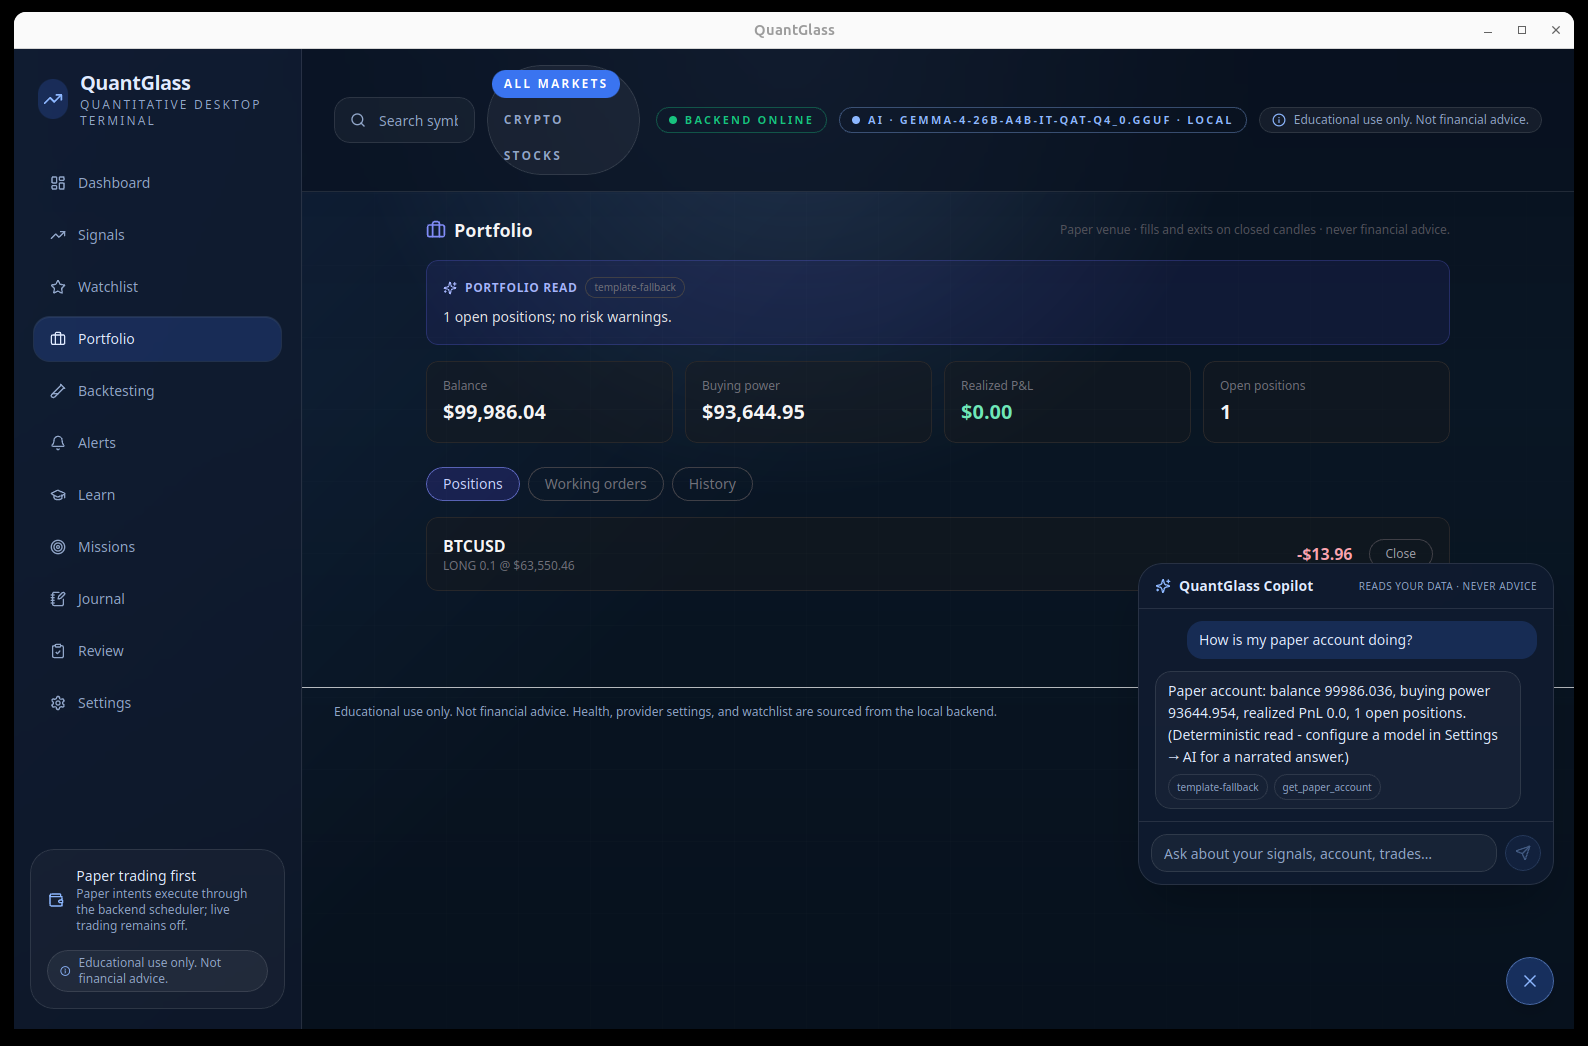
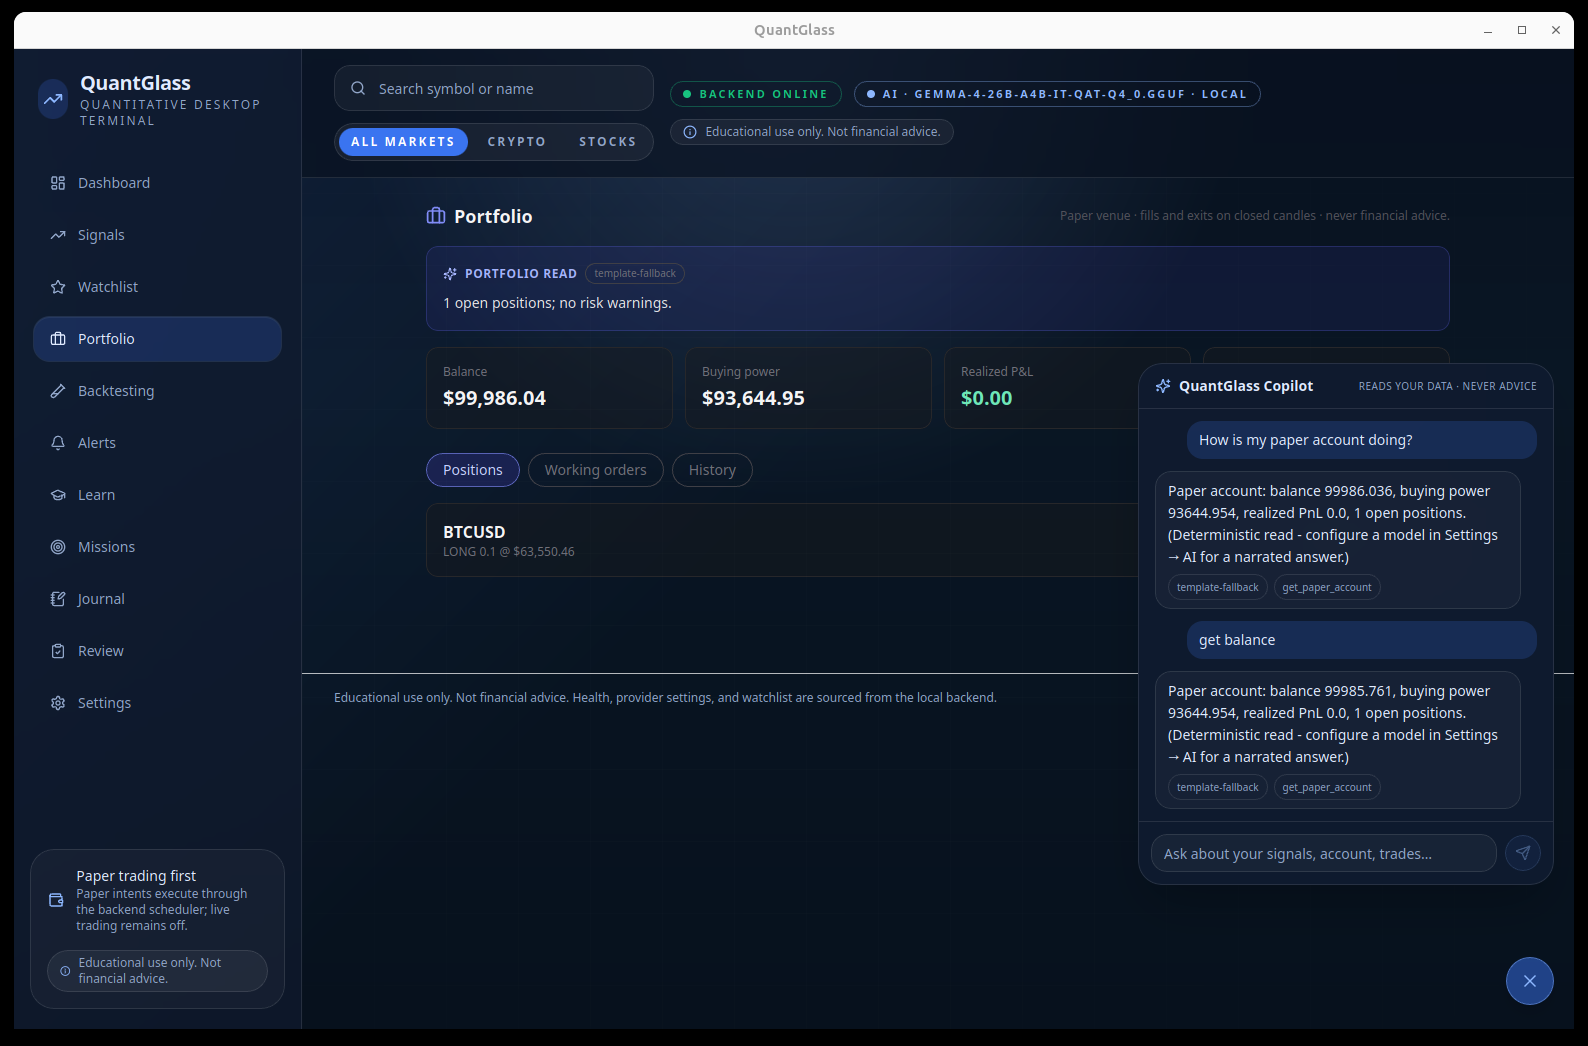
Keep market filter pills on one line in the header
At mid-size window widths the flex row squeezed the pill group until it
wrapped vertically over the search box. The pill group no longer
shrinks and the header row wraps it below the search as one unit
instead. User-guide screenshots retaken without the glitch.

diff --git a/apps/desktop/src/components/ui.tsx b/apps/desktop/src/components/ui.tsx
@@ -177,7 +177,7 @@ export function PillTabs<T extends string>({
   return (
     <div
       className={clsx(
-        'inline-flex flex-wrap gap-2 rounded-full border border-border bg-white/5 p-1',
+        'inline-flex w-fit shrink-0 gap-2 rounded-full border border-border bg-white/5 p-1',
         className,
       )}
     >
@@ -186,7 +186,7 @@ export function PillTabs<T extends string>({
           key={option.value}
           type="button"
           className={clsx(
-            'rounded-full px-3 py-1.5 text-xs font-semibold uppercase tracking-[0.18em] transition',
+            'whitespace-nowrap rounded-full px-3 py-1.5 text-xs font-semibold uppercase tracking-[0.18em] transition',
             option.value === value
               ? 'bg-accentStrong text-white'
               : 'text-muted hover:bg-white/5 hover:text-ink',

diff --git a/apps/desktop/src/components/layout.tsx b/apps/desktop/src/components/layout.tsx
@@ -137,7 +137,7 @@ export function AppShell({
       <header className="sticky top-0 z-40 border-b border-border bg-background/70 backdrop-blur-xl lg:ml-72">
         <div className="flex flex-col gap-4 px-4 py-4 sm:px-6 lg:px-8">
           <div className="flex flex-col gap-4 xl:flex-row xl:items-center xl:justify-between">
-            <div className="flex flex-1 flex-col gap-3 sm:flex-row sm:items-center">
+            <div className="flex flex-1 flex-col gap-3 sm:flex-row sm:flex-wrap sm:items-center">
               <div className="relative w-full max-w-lg">
                 <Search className="pointer-events-none absolute left-4 top-1/2 size-4 -translate-y-1/2 text-muted" />
                 <input